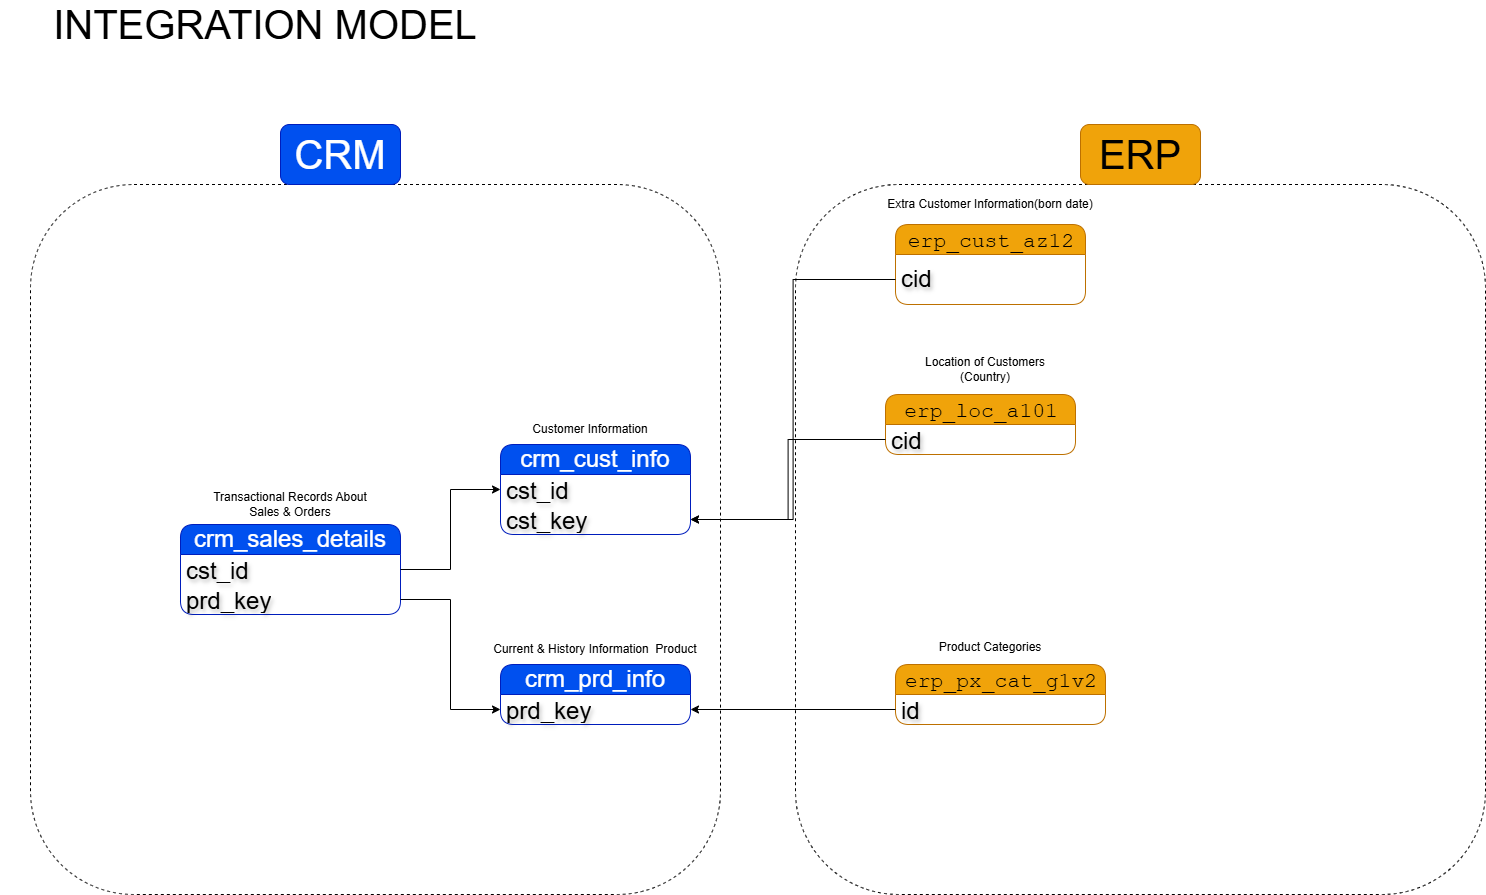
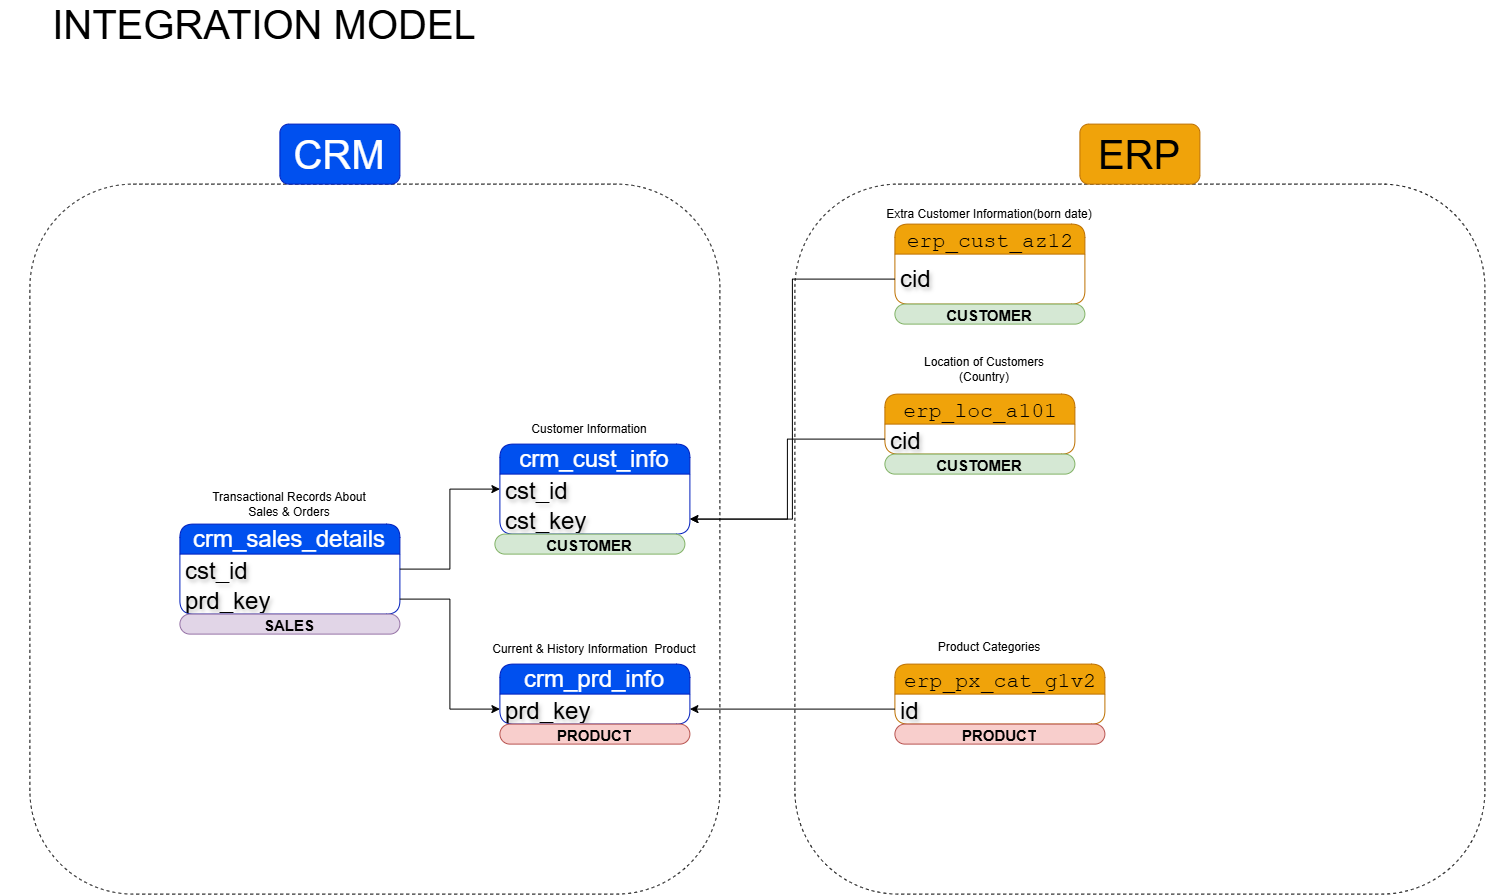
Add Gold layer views, quality checks, and star-schema docs
- Add gold views: dim_customers, dim_products, fact_sales (star schema)
- Add gold quality checks: dimension grain and fact lookup integrity
- Add star-schema data model diagram (data_model.png)
- Update data catalog to match actual gold views (product_cost, maintenance)
- Fix integration model diagram; ignore draw.io .bkp backups

diff --git a/docs/data_catalog.md b/docs/data_catalog.md
@@ -9,53 +9,53 @@ The Gold Layer is the business-level data representation, structured to support 
 - **Purpose:** Stores customer details enriched with demographic and geographic data.
 - **Columns:**
 
-| Column Name      | Data Type     | Description                                                                                   |
-|------------------|---------------|-----------------------------------------------------------------------------------------------|
-| customer_key     | INT           | Surrogate key uniquely identifying each customer record in the dimension table.               |
-| customer_id      | INT           | Unique numerical identifier assigned to each customer.                                        |
-| customer_number  | VARCHAR(50)  | Alphanumeric identifier representing the customer, used for tracking and referencing.         |
-| first_name       | VARCHAR(50)  | The customer's first name, as recorded in the system.                                         |
-| last_name        | VARCHAR(50)  | The customer's last name or family name.                                                     |
-| country          | VARCHAR(50)  | The country of residence for the customer (e.g., 'Australia').                               |
-| marital_status   | VARCHAR(50)  | The marital status of the customer (e.g., 'Married', 'Single').                              |
-| gender           | VARCHAR(50)  | The gender of the customer (e.g., 'Male', 'Female', 'n/a').                                  |
-| birthdate        | DATE          | The date of birth of the customer, formatted as YYYY-MM-DD (e.g., 1971-10-06).               |
-| create_date      | DATE          | The date and time when the customer record was created in the system|
+| Column Name      | Data Type    | Description                                                                            |
+|------------------|--------------|---------------------------------------------------------------------------------------|
+| customer_key     | INT          | Surrogate key uniquely identifying each customer record in the dimension table.        |
+| customer_id      | INT          | Unique numerical identifier assigned to each customer (from CRM).                      |
+| customer_number  | VARCHAR(50)  | Alphanumeric identifier representing the customer, used for tracking and referencing.  |
+| first_name       | VARCHAR(50)  | The customer's first name, as recorded in the system.                                 |
+| last_name        | VARCHAR(50)  | The customer's last name or family name.                                              |
+| country          | VARCHAR(50)  | The country of residence for the customer (e.g., 'Germany'), sourced from ERP.        |
+| marital_status   | VARCHAR(50)  | The marital status of the customer (e.g., 'Married', 'Single').                       |
+| gender           | VARCHAR(50)  | The gender of the customer (e.g., 'Male', 'Female', 'n/a'). CRM is master, ERP fallback. |
+| birthdate        | DATE         | The date of birth of the customer, formatted as YYYY-MM-DD (e.g., 1971-10-06).        |
+| create_date      | DATE         | The date on which the customer record was created in the source system.               |
 
 ---
 
 ### 2. **gold.dim_products**
-- **Purpose:** Provides information about the products and their attributes.
+- **Purpose:** Provides information about the products and their attributes. Contains only the **current** version of each product (historical versions are filtered out).
 - **Columns:**
 
-| Column Name         | Data Type     | Description                                                                                   |
-|---------------------|---------------|-----------------------------------------------------------------------------------------------|
-| product_key         | INT           | Surrogate key uniquely identifying each product record in the product dimension table.         |
-| product_id          | INT           | A unique identifier assigned to the product for internal tracking and referencing.            |
-| product_number      | VARCHAR(50)  | A structured alphanumeric code representing the product, often used for categorization or inventory. |
-| product_name        | VARCHAR(50)  | Descriptive name of the product, including key details such as type, color, and size.         |
-| category_id         | VARCHAR(50)  | A unique identifier for the product's category, linking to its high-level classification.     |
-| category            | VARCHAR(50)  | The broader classification of the product (e.g., Bikes, Components) to group related items.  |
-| subcategory         | VARCHAR(50)  | A more detailed classification of the product within the category, such as product type.      |
-| maintenance_required| VARCHAR(50)  | Indicates whether the product requires maintenance (e.g., 'Yes', 'No').                       |
-| cost                | INT           | The cost or base price of the product, measured in monetary units.                            |
-| product_line        | VARCHAR(50)  | The specific product line or series to which the product belongs (e.g., Road, Mountain).      |
-| start_date          | DATE          | The date when the product became available for sale or use, stored in|
+| Column Name    | Data Type    | Description                                                                                           |
+|----------------|--------------|------------------------------------------------------------------------------------------------------|
+| product_key    | INT          | Surrogate key uniquely identifying each product record in the product dimension table.               |
+| product_id     | INT          | A unique identifier assigned to the product for internal tracking and referencing.                   |
+| product_number | VARCHAR(50)  | A structured alphanumeric code representing the product, often used for categorization or inventory.  |
+| product_name   | VARCHAR(50)  | Descriptive name of the product, including key details such as type, color, and size.                |
+| category_id    | VARCHAR(50)  | A unique identifier for the product's category, linking to its high-level classification.            |
+| category       | VARCHAR(50)  | The broader classification of the product (e.g., Bikes, Components) to group related items.           |
+| subcategory    | VARCHAR(50)  | A more detailed classification of the product within the category, such as product type.             |
+| maintenance    | VARCHAR(50)  | Indicates whether the product requires maintenance (e.g., 'Yes', 'No').                              |
+| product_cost   | INT          | The cost or base price of the product, measured in monetary units.                                   |
+| product_line   | VARCHAR(50)  | The specific product line or series to which the product belongs (e.g., Road, Mountain).             |
+| start_date     | DATE         | The date on which the (current) product version became available for sale or use.                    |
 
 ---
 
 ### 3. **gold.fact_sales**
-- **Purpose:** Stores transactional sales data for analytical purposes.
+- **Purpose:** Stores transactional sales data for analytical purposes. Grain: one row per product line item within an order.
 - **Columns:**
 
-| Column Name     | Data Type     | Description                                                                                   |
-|-----------------|---------------|-----------------------------------------------------------------------------------------------|
-| order_number    | VARCHAR(50)  | A unique alphanumeric identifier for each sales order (e.g., 'SO54496').                      |
-| product_key     | INT           | Surrogate key linking the order to the product dimension table.                               |
-| customer_key    | INT           | Surrogate key linking the order to the customer dimension table.                              |
-| order_date      | DATE          | The date when the order was placed.                                                           |
-| shipping_date   | DATE          | The date when the order was shipped to the customer.                                          |
-| due_date        | DATE          | The date when the order payment was due.                                                      |
-| sales_amount    | INT           | The total monetary value of the sale for the line item, in whole currency units (e.g., 25).   |
-| quantity        | INT           | The number of units of the product ordered for the line item (e.g., 1).                       |
-| price           | INT           | The price per unit of the product for the line item, in whole currency units (e.g., 25).      |
+| Column Name   | Data Type    | Description                                                                                 |
+|---------------|--------------|---------------------------------------------------------------------------------------------|
+| order_number  | VARCHAR(50)  | A unique alphanumeric identifier for each sales order (e.g., 'SO54496').                     |
+| product_key   | INT          | Surrogate key linking the order line to the product dimension (gold.dim_products).          |
+| customer_key  | INT          | Surrogate key linking the order line to the customer dimension (gold.dim_customers).        |
+| order_date    | DATE         | The date when the order was placed.                                                         |
+| shipping_date | DATE         | The date when the order was shipped to the customer.                                        |
+| due_date      | DATE         | The date when the order payment was due.                                                    |
+| sales_amount  | INT          | The total monetary value of the sale for the line item, in whole currency units (e.g., 25). |
+| quantity      | INT          | The number of units of the product ordered for the line item (e.g., 1).                     |
+| price         | INT          | The price per unit of the product for the line item, in whole currency units (e.g., 25).    |
